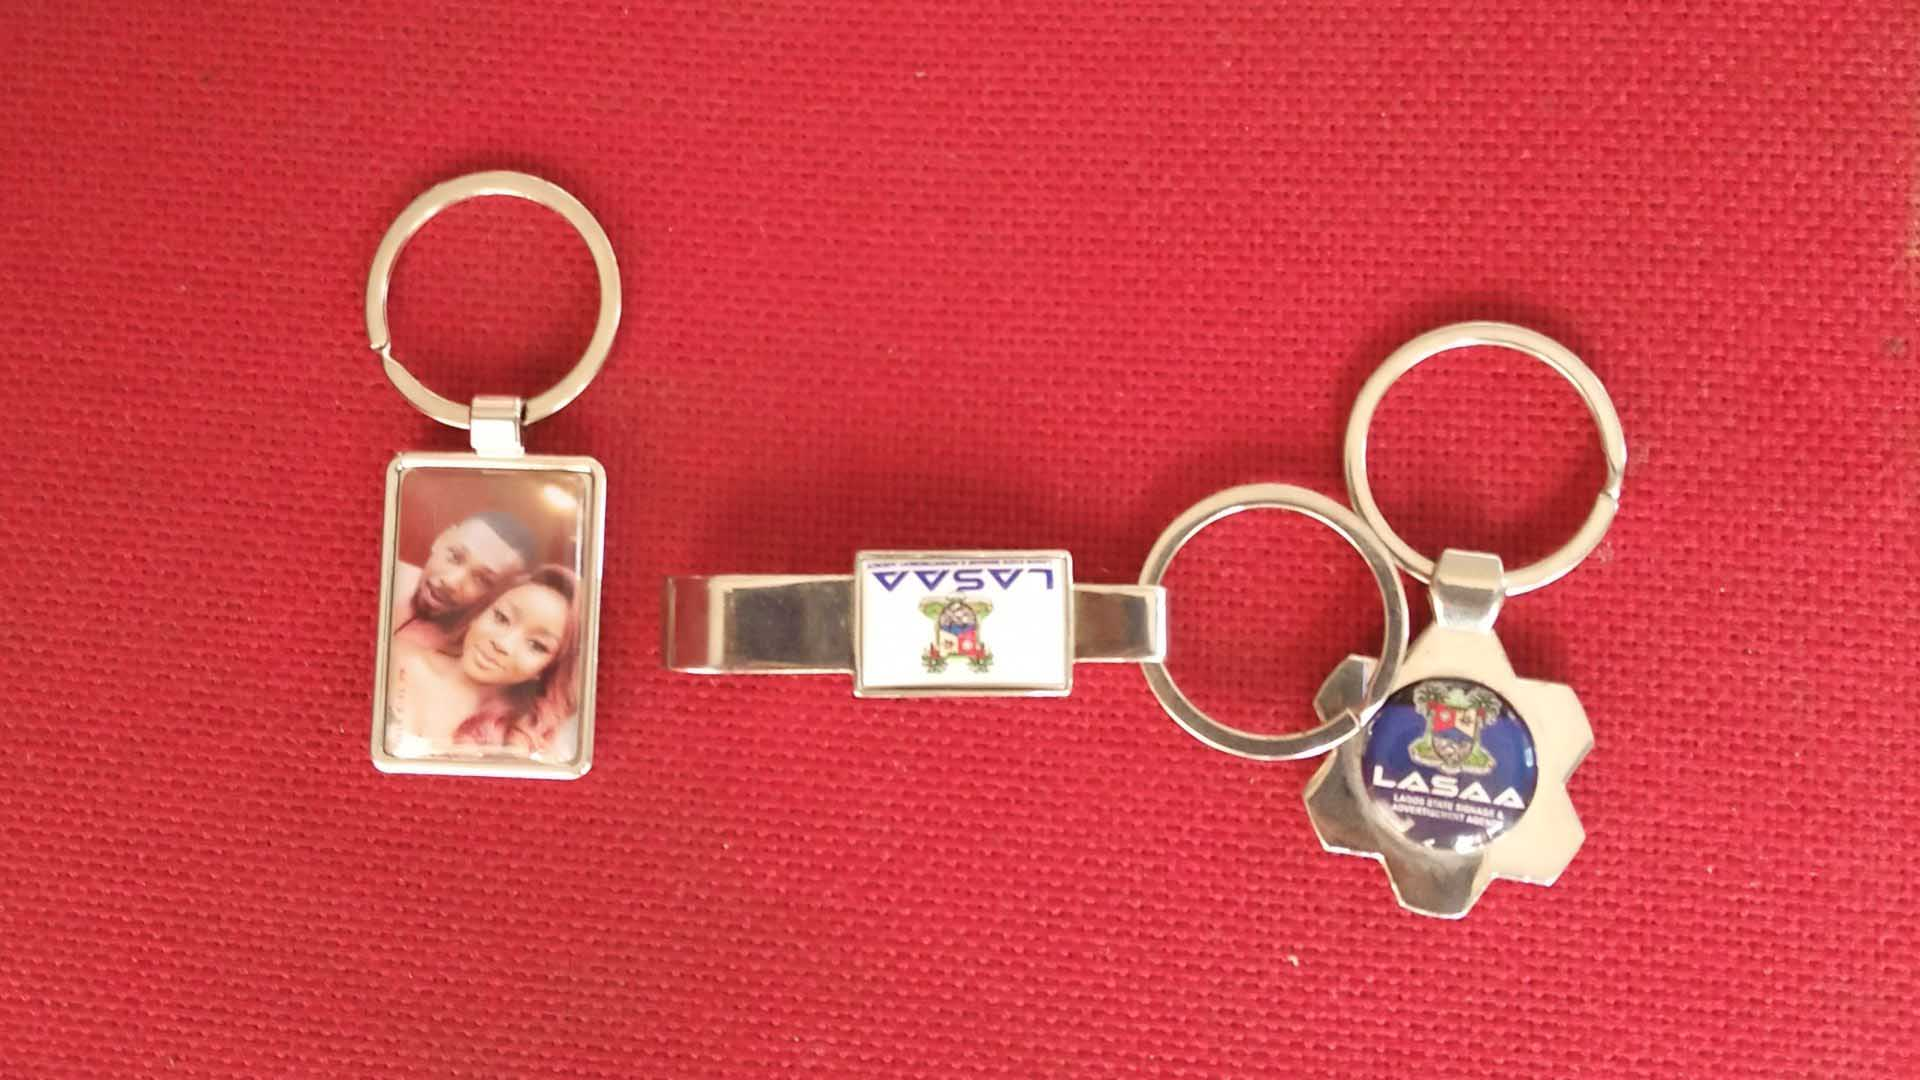
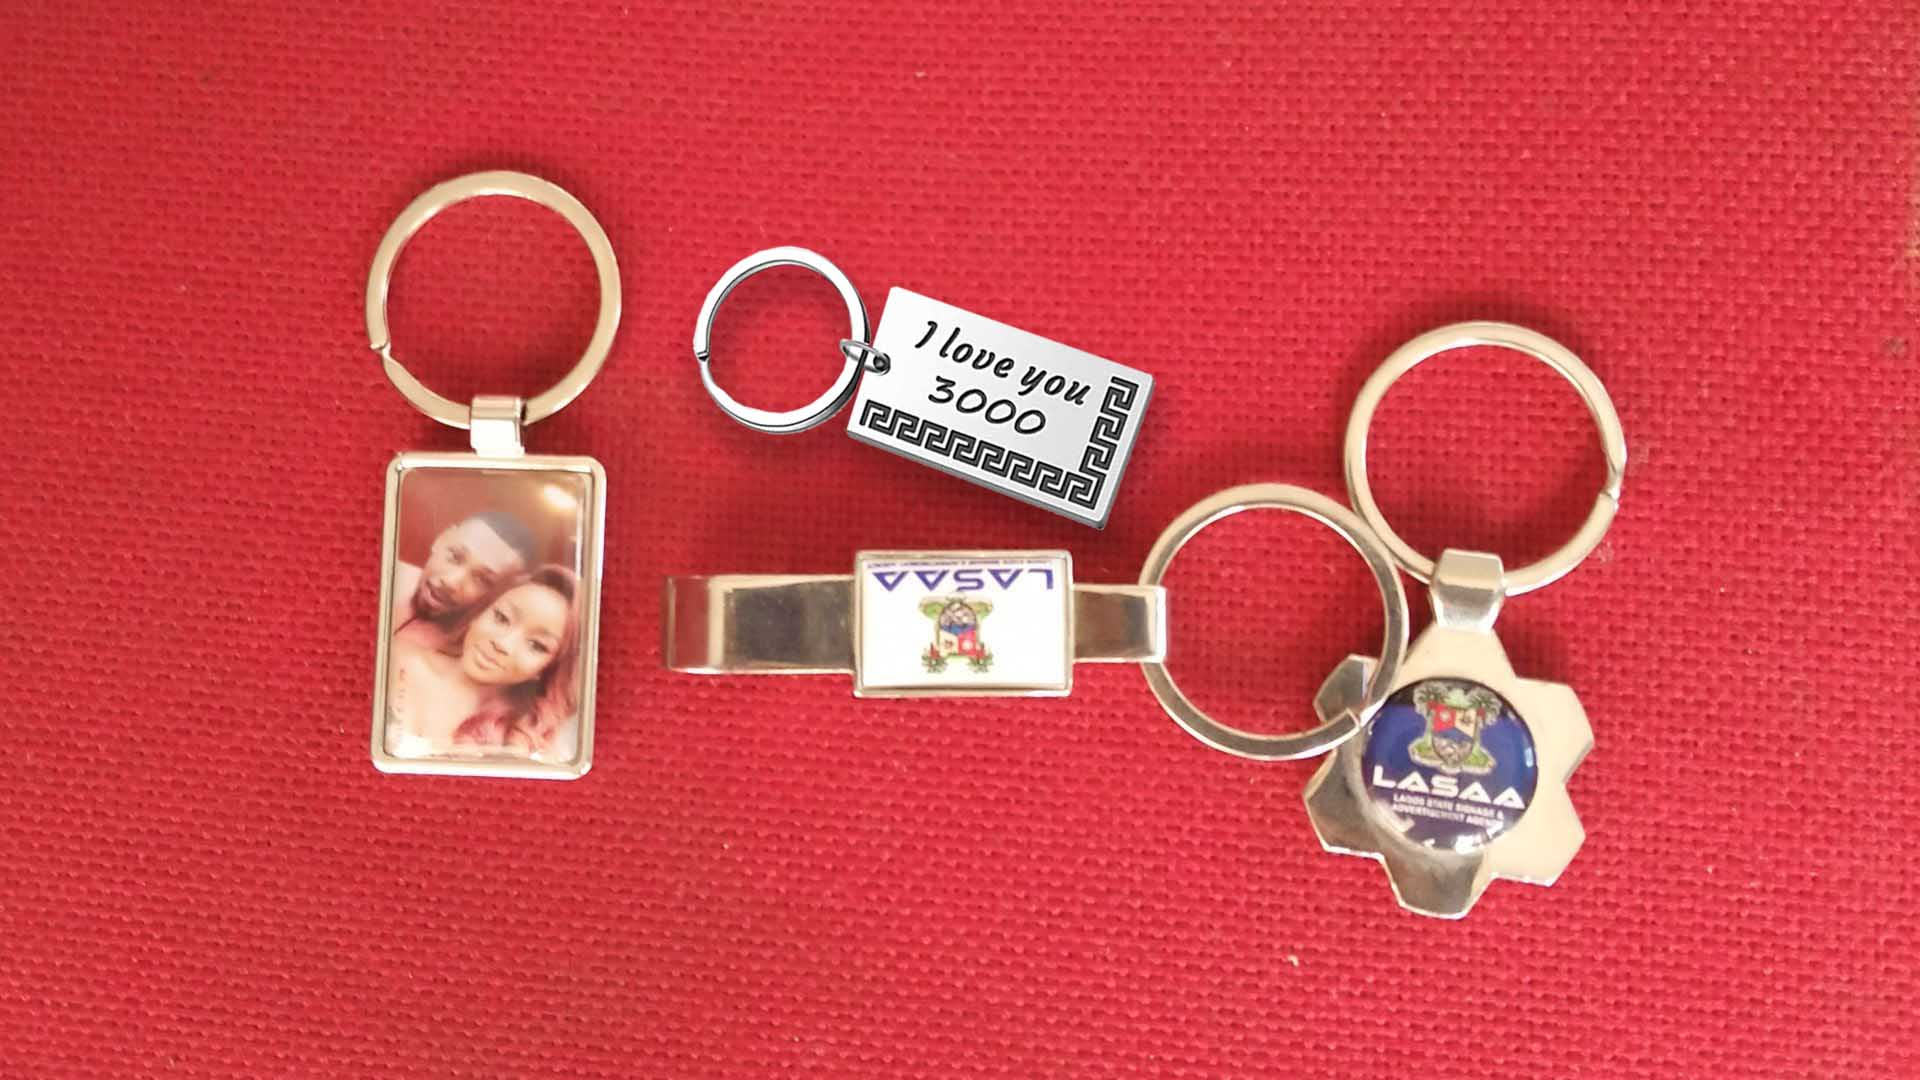
receipt print

Changed region(s): [[0.3438, 0.2139, 0.625, 0.5194]]

diff --git a/blog_page41.html b/blog_page41.html
@@ -338,7 +338,7 @@
 							<div class="post-item-desc">
 								<h4><a href="#">Key Holder Printing and Design</a></h4>
 								<p>Present a memorable gift to your friends and loved ones, get a unique and customized key holder <strong><a href="contact">@HazkenDigital</a></strong>.
-									<br><strong>Material:</strong> Dome sticker pasted on key holder available in different shapes and sizes.
+									<br><strong>Material:</strong> Dome sticker pasted on key holder, engraving text and logo available in different shapes and sizes.
 									<br><strong>Finishing:</strong> full-color printing of your picture, brand identity and corporate events.
 									<br><strong>Best for:</strong> Branded Corporate Gift items and Souvenirs for your loved ones and business uses.
 									<br><strong>Price:</strong> Key Holder Printing Starting from <strong>₦3,000</strong> per copy.
